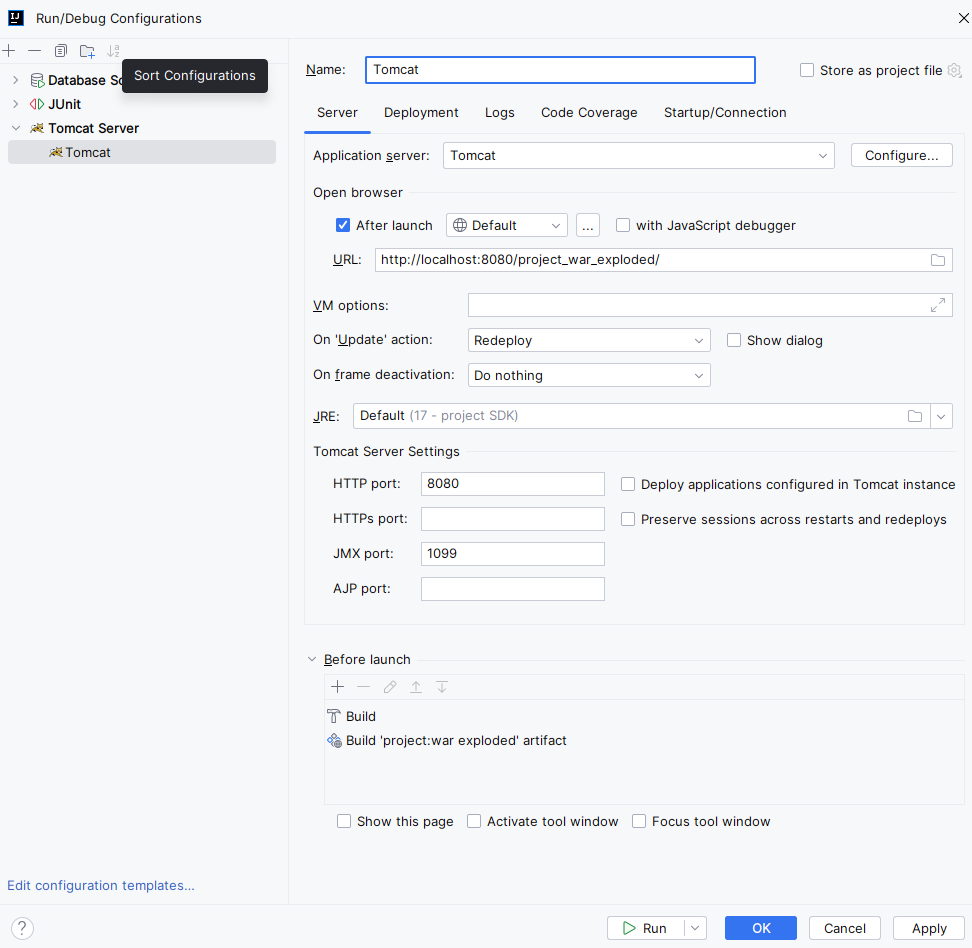
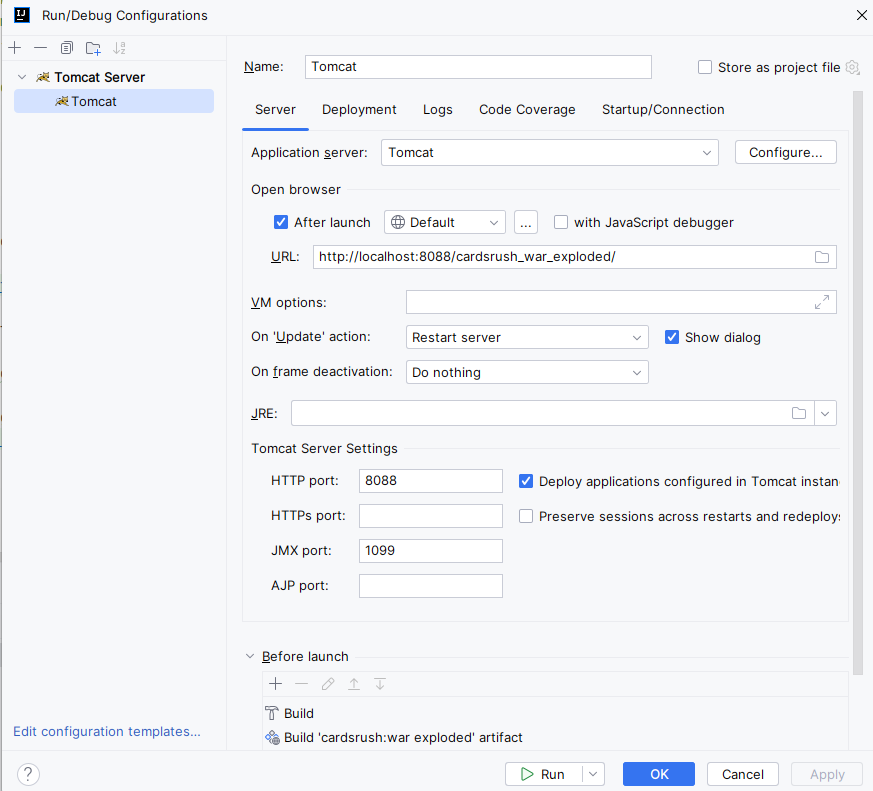
refacto - ReadMe.md and README_EN.md.md

diff --git a/README_EN.md b/README_EN.md
@@ -1,0 +1,91 @@
+# Cards Rush - Web Development Project - 2024
+
+Version française disponible [ici](README.md)
+
+## Authors :
+
+- [Kevin MITRESSÉ](http://kmitresse.free.fr)
+- [Lucàs VABRE](https://portfolio-lucasvbr.vercel.app/)
+
+## Installation
+
+To be able to run the project, you need to have docker and maven installed on your machine.
+
+### Installation of docker desktop
+
+To install docker desktop, go to the official docker website and download the version corresponding to your operating system.
+
+Link: [Docker Desktop](https://www.docker.com/products/docker-desktop)
+
+### Installation of maven
+
+To install maven, go to the official maven website and download the version corresponding to your operating system.
+
+Link to an installation tutorial: [Maven](https://www.baeldung.com/install-maven-on-windows-linux-mac)
+
+### Additional prerequisites (only for windows)
+
+On windows, you need to have installed a bash terminal system like git bash or windows terminal.
+
+`Recommended` Link to git bash (Easy to use and groups all bash commands): [Git Bash](https://git-scm.com/downloads)
+
+Link to windows terminal: [Windows Terminal](https://www.microsoft.com/fr-fr/p/windows-terminal/9n0dx20hk701?activetab=pivot:overviewtab)
+
+### Project installation
+
+Once all the tools are installed.
+Run the following commands to install the project:
+
+From a bash terminal (or git bash), go to the root of the project and run the following commands:
+
+```` bash
+
+# Create the .sql scripts
+./mysql/build.sh
+
+# Launch the docker container containing the database
+# project_devweb is the name of the project, you can change it as you wish
+# remove the -p project_devweb command if you do not want to name the project, it will default to the name of the folder containing the project
+docker-compose -p cardsRush up -d
+
+# Install maven dependencies
+mvn clean package
+mvn install
+````
+## Launch of the project
+
+From IntelliJ, open the `file > project structure` tab and check that the following artifacts are present:
+- project: war
+- project: war exploded
+
+![Onglet project_structure.png](readmeTools/project_structure.png)
+
+We use tomcat to launch our project.
+
+On IntelliJ, you can add a Tomcat configuration from the "edit run configurations" tab, then by clicking on the "+" button at the top left of the launch window.
+
+Edit the configuration as follows (the port used for Tomcat is 8080, but you can change it if you wish or if it is already used by another service on your machine):
+![Configuration Tomcat.png](readmeTools/tomcat_configuration.png)
+![Configuration Tomcat2.png](readmeTools/tomcat_deployment.png)
+
+Finally, start your docker container containing the database and launch the application from your browser.
+
+## Multiplayer games
+
+Cards Rush is a multiplayer game. To play with your friends locally, you must be connected to the same network (same wifi, same connection sharing, etc...).
+
+The link to use to access the game is as follows: `http://ip:8080/cardsrush_war_exploded/` (ip being the ip address of the machine hosting the Tomcat server).
+
+As the application is not yet hosted online, it is necessary to launch the application on a machine and share the ip address of this machine so that other players can connect.
+
+
+## Potential improvements to consider:
+
+- Hosting the game online.
+- Adding a chat for multiplayer games when the application is hosted online.
+
+
+## Potentielles améliorations à prévoir:
+
+- Hebergement du jeu en ligne.
+- Ajout d'un chat pour les parties multijoueurs lorsque l'application sera hébergée en ligne.

diff --git a/README.md b/README.md
@@ -1,4 +1,10 @@
-# Projet Développent Web - 2024
+# Cards Rush - Projet Développement Web - 2024
+
+English version available [here](README_EN.md)
+
+## Auteurs :
+- [Kevin MITRESSÉ](http://kmitresse.free.fr)
+- [Lucàs VABRE](https://portfolio-lucasvbr.vercel.app/)
 
 ## Installation
 
@@ -36,14 +42,15 @@ Depuis un terminal bash (ou git bash), se positionner à la racine du projet pui
 # Lancement du container docker contenant la base de données
 # project_devweb est le nom du projet, vous pouvez le changer à votre guise
 # retirer la commande -p project_devweb si vous ne souhaitez pas nommer le projet, il portera par défaut le nom du dossier contenant le projet
-docker-compose -p project_devweb up -d
+docker-compose -p cardsRush up -d
 
 # Installation des dépendances maven
+mvn clean package
 mvn install
 ````
 
 ## Lancement du projet
-Depuis IntelliJ, ouvrir l'onglet `file > project structure` et ajouter les artefacts suivants :
+Depuis IntelliJ, ouvrir l'onglet `file > project structure` et vérifier que les artefacts suivants sont bien présents :
 - project: war
 - project: war exploded
 
@@ -55,3 +62,19 @@ Sur IntelliJ, vous pouvez ajouter une configuration Tomcat depuis l'onglet "edit
 
 Editez la configuration comme suit (le port utilisé pour Tomcat conseillé est 8080, mais vous pouvez le changer si vous le souhaitez ou s'il est déjà utilisé par un autre service sur votre machine) :
 ![Configuration Tomcat.png](readmeTools/tomcat_configuration.png)
+![Configuration Tomcat2.png](readmeTools/tomcat_deployment.png)
+
+Enfin, allumez votre container docker contenant la base de données puis lancez l'application depuis votre navigateur.
+
+## Parties multijoueurs
+
+Cards Rush est un jeu multijoueurs. Pour joueur avec vos amis en local, vous devez être connecté au même réseau (même wifi, même partage de connexion, etc...).
+
+Le lien a utiliser pour accéder au jeu est le suivant : `http://ip:8080/cardsrush_war_exploded/` (ip étant l'adresse ip de la machine hébergeant le serveur Tomcat).
+
+L'application n'étant pas encore hébérgée en ligne, il est nécessaire de lancer l'application sur une machine et de partager l'adresse ip de cette machine pour que les autres joueurs puissent se connecter.
+
+## Potentielles améliorations à prévoir:
+
+- Hebergement du jeu en ligne.
+- Ajout d'un chat pour les parties multijoueurs lorsque l'application sera hébergée en ligne.
